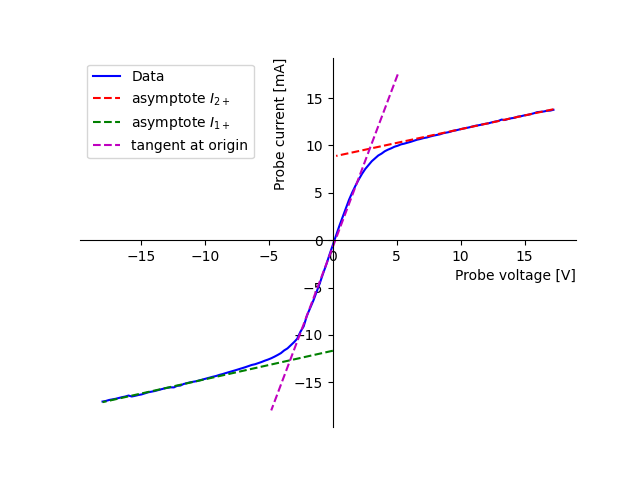
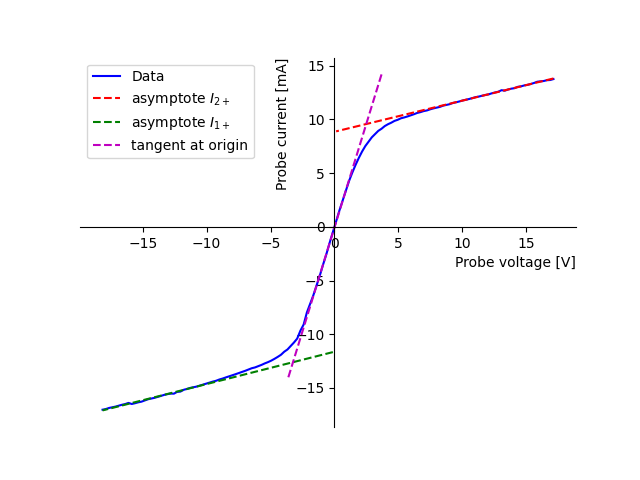
readout Latex + optimise floating potential

diff --git a/analysis_part2.py b/analysis_part2.py
@@ -4,24 +4,42 @@ import matplotlib.pyplot as plt
 from scipy.optimize import curve_fit
 import os
 
-class Data():
+
+class Results:
+    def __init__(self) -> None:
+        self.I1 = np.zeros((2, 3), dtype="float")
+        self.dI1dV = np.zeros((2, 3), dtype="float")
+        self.I2 = np.zeros((2, 3), dtype="float")
+        self.dI2dV = np.zeros((2, 3), dtype="float")
+        self.dIdV = np.zeros((2, 3), dtype="float")
+
+
+results = Results()
+
+
+class Data:
     def __init__(self, data, pressure, current):
         self.data = data
         self.pressure = pressure
-        if (current.endswith(".txt")):
+        if current.endswith(".txt"):
             self.current = current[:-4]
         else:
             self.current = current
 
+
 def floating_potential(voltage, current):
-    zero_index = np.argmin(np.abs(current))
-    return voltage-np.full_like(voltage,voltage[zero_index])
+    abs_current = np.abs(current)
+    zero_index = np.argmin(abs_current)
+    second_zero_index = zero_index + np.argmax(np.transpose(abs_current[zero_index-1:zero_index+1])) - 1
+    floating_pot = (abs_current[zero_index]*voltage[second_zero_index]+abs_current[second_zero_index]*voltage[zero_index])/(abs_current[zero_index]+abs_current[second_zero_index])
+    return voltage - np.full_like(voltage, floating_pot)
+
 
 def read_txt(name):
     with open(name, "r") as file:
         txtReader = pandas.read_csv(file, sep="\t", decimal=".", skiprows=1)
         raw_data = np.transpose(np.array(txtReader))
-        raw_data[0] = floating_potential(raw_data[0],raw_data[1])
+        raw_data[0] = floating_potential(raw_data[0], raw_data[1])
         return Data(raw_data, name.split("_")[3], name.split("_")[5])
 
 
@@ -35,52 +53,132 @@ for filename in os.listdir(directory):
     if os.path.isfile(f) and filename.endswith(".txt"):
         data.append(read_txt(filename.split("/")[-1]))
 
+
 def asymptote(t, a, b):
     return a * t + b
 
-def fit_asymptotes(xdata,ydata,pressure,current,first_a_guess=1,first_b_guess=-2,second_a_guess=1,second_b_guess=2):
+
+def fit_asymptotes(
+    xdata,
+    ydata,
+    pressure,
+    current,
+    first_a_guess=1,
+    first_b_guess=-2,
+    second_a_guess=1,
+    second_b_guess=2,
+):
     zero_index = np.argmin(np.abs(xdata))
-    
-    stop_index_0 = round(zero_index/2)
-    popt_0, pcov_0 = curve_fit(asymptote, xdata[:stop_index_0], ydata[:stop_index_0], [first_a_guess,first_b_guess])
 
-    start_index_1 = round((len(xdata)-zero_index)/2+zero_index)
-    popt_1, pcov_1 = curve_fit(asymptote, xdata[start_index_1:], ydata[start_index_1:], [second_a_guess,second_b_guess])
+    stop_index_0 = round(zero_index / 2)
+    popt_0, pcov_0 = curve_fit(
+        asymptote,
+        xdata[:stop_index_0],
+        ydata[:stop_index_0],
+        [first_a_guess, first_b_guess],
+    )
 
-    start_index_2 = zero_index - 10
-    stop_index_2 = zero_index + 10
-    popt_2, pcov_2 = curve_fit(asymptote, xdata[start_index_2:stop_index_2],ydata[start_index_2:stop_index_2],[1,0])
+    start_index_1 = round((len(xdata) - zero_index) / 2 + zero_index)
+    popt_1, pcov_1 = curve_fit(
+        asymptote,
+        xdata[start_index_1:],
+        ydata[start_index_1:],
+        [second_a_guess, second_b_guess],
+    )
+
+    start_index_2 = zero_index - 5
+    stop_index_2 = zero_index + 5
+    popt_2, pcov_2 = curve_fit(
+        asymptote,
+        xdata[start_index_2:stop_index_2],
+        ydata[start_index_2:stop_index_2],
+        [1, 0],
+    )
     fig = plt.figure()
     ax = fig.add_subplot(1, 1, 1)
 
-    plt.plot(xdata, ydata, 'b-',label='Data')
-    plt.xlabel('Probe voltage [V]',loc='right')
-    plt.ylabel('Probe current [mA]',loc='top')
-    plt.plot(xdata[:zero_index], asymptote(xdata[:zero_index], *popt_0), 'r--', label=r'asymptote $I_{2+}$')
-    plt.plot(xdata[zero_index:], asymptote(xdata[zero_index:], *popt_1), 'g--', label=r'asymptote $I_{1+}$')
-    plt.plot(xdata[start_index_2-10:stop_index_2+10], asymptote(xdata[start_index_2-10:stop_index_2+10], *popt_2), 'm--', label='tangent at origin')
+    plt.plot(xdata, ydata, "b-", label="Data")
+    plt.xlabel("Probe voltage [V]", loc="right")
+    plt.ylabel("Probe current [mA]", loc="top")
+    plt.plot(
+        xdata[:zero_index],
+        asymptote(xdata[:zero_index], *popt_0),
+        "r--",
+        label=r"asymptote $I_{2+}$",
+    )
+    plt.plot(
+        xdata[zero_index:],
+        asymptote(xdata[zero_index:], *popt_1),
+        "g--",
+        label=r"asymptote $I_{1+}$",
+    )
+    plt.plot(
+        xdata[start_index_2 - 10 : stop_index_2 + 10],
+        asymptote(xdata[start_index_2 - 10 : stop_index_2 + 10], *popt_2),
+        "m--",
+        label="tangent at origin",
+    )
 
     plt.legend()
 
     # Move left y-axis and bottom x-axis to centre, passing through (0,0)
-    ax.spines['left'].set_position('zero')
-    ax.spines['bottom'].set_position('zero')
+    ax.spines["left"].set_position("zero")
+    ax.spines["bottom"].set_position("zero")
 
     # Eliminate upper and right axes
-    ax.spines['right'].set_color('none')
-    ax.spines['top'].set_color('none')
+    ax.spines["right"].set_color("none")
+    ax.spines["top"].set_color("none")
 
     # Show ticks in the left and lower axes only
-    ax.xaxis.set_ticks_position('bottom')
-    ax.yaxis.set_ticks_position('left')
+    ax.xaxis.set_ticks_position("bottom")
+    ax.yaxis.set_ticks_position("left")
     plt.savefig("langmuir_probe_p_" + pressure + "_i_" + current + ".png")
     plt.close()
+    """
     print("\tPressure: ", pressure, " mbar, current: ", current," mA")
-    print("I1+: ",popt_1[1])
+    print("I1+: ",-popt_1[1])
     print("dI1+/dV: ", popt_1[0])
     print("I2+: ", popt_0[1])
     print("dI2+/dV: ", popt_0[0])
     print("dI/dV: ", popt_2[0])
+    """
+
+    if pressure == "0.28mbar":
+        index_0 = 0
+    else:
+        index_0 = 1
+    if current == "4mA":
+        index_1 = 0
+    elif current == "8mA":
+        index_1 = 1
+    else:
+        index_1 = 2
+
+    results.I1[index_0][index_1] = -popt_1[1]
+    results.dI1dV[index_0][index_1] = popt_1[0]
+    results.I2[index_0][index_1] = popt_0[1]
+    results.dI2dV[index_0][index_1] = popt_0[0]
+    results.dIdV[index_0][index_1] = popt_2[0]
+
 
 for data_set in data:
-    fit_asymptotes(data_set.data[0], data_set.data[1], data_set.pressure, data_set.current)
+    fit_asymptotes(
+        data_set.data[0], data_set.data[1], data_set.pressure, data_set.current
+    )
+
+
+def string_formatter(result_data):
+    return (
+        "&  4 mA&  8 mA& 15 mA\\\\ \hline \n\t0.08 mbar&  "
+        + np.array2string(result_data[0], separator="& ",precision=3)[1:-1]
+        + "\\\\ \hline \n\t0.28 mbar&  "
+        + np.array2string(result_data[1], separator="& ",precision=3)[1:-1]
+        + "\\\\ \hline\n"
+    )
+
+
+print("\tI1+:\n", string_formatter(results.I1))
+print("\tdI1+/dV: \n", string_formatter(results.dI1dV))
+print("\tI2+: \n", string_formatter(results.I2))
+print("\tdI2+/dV: \n", string_formatter(results.dI2dV))
+print("\tdI/dV: \n", string_formatter(results.dIdV))
